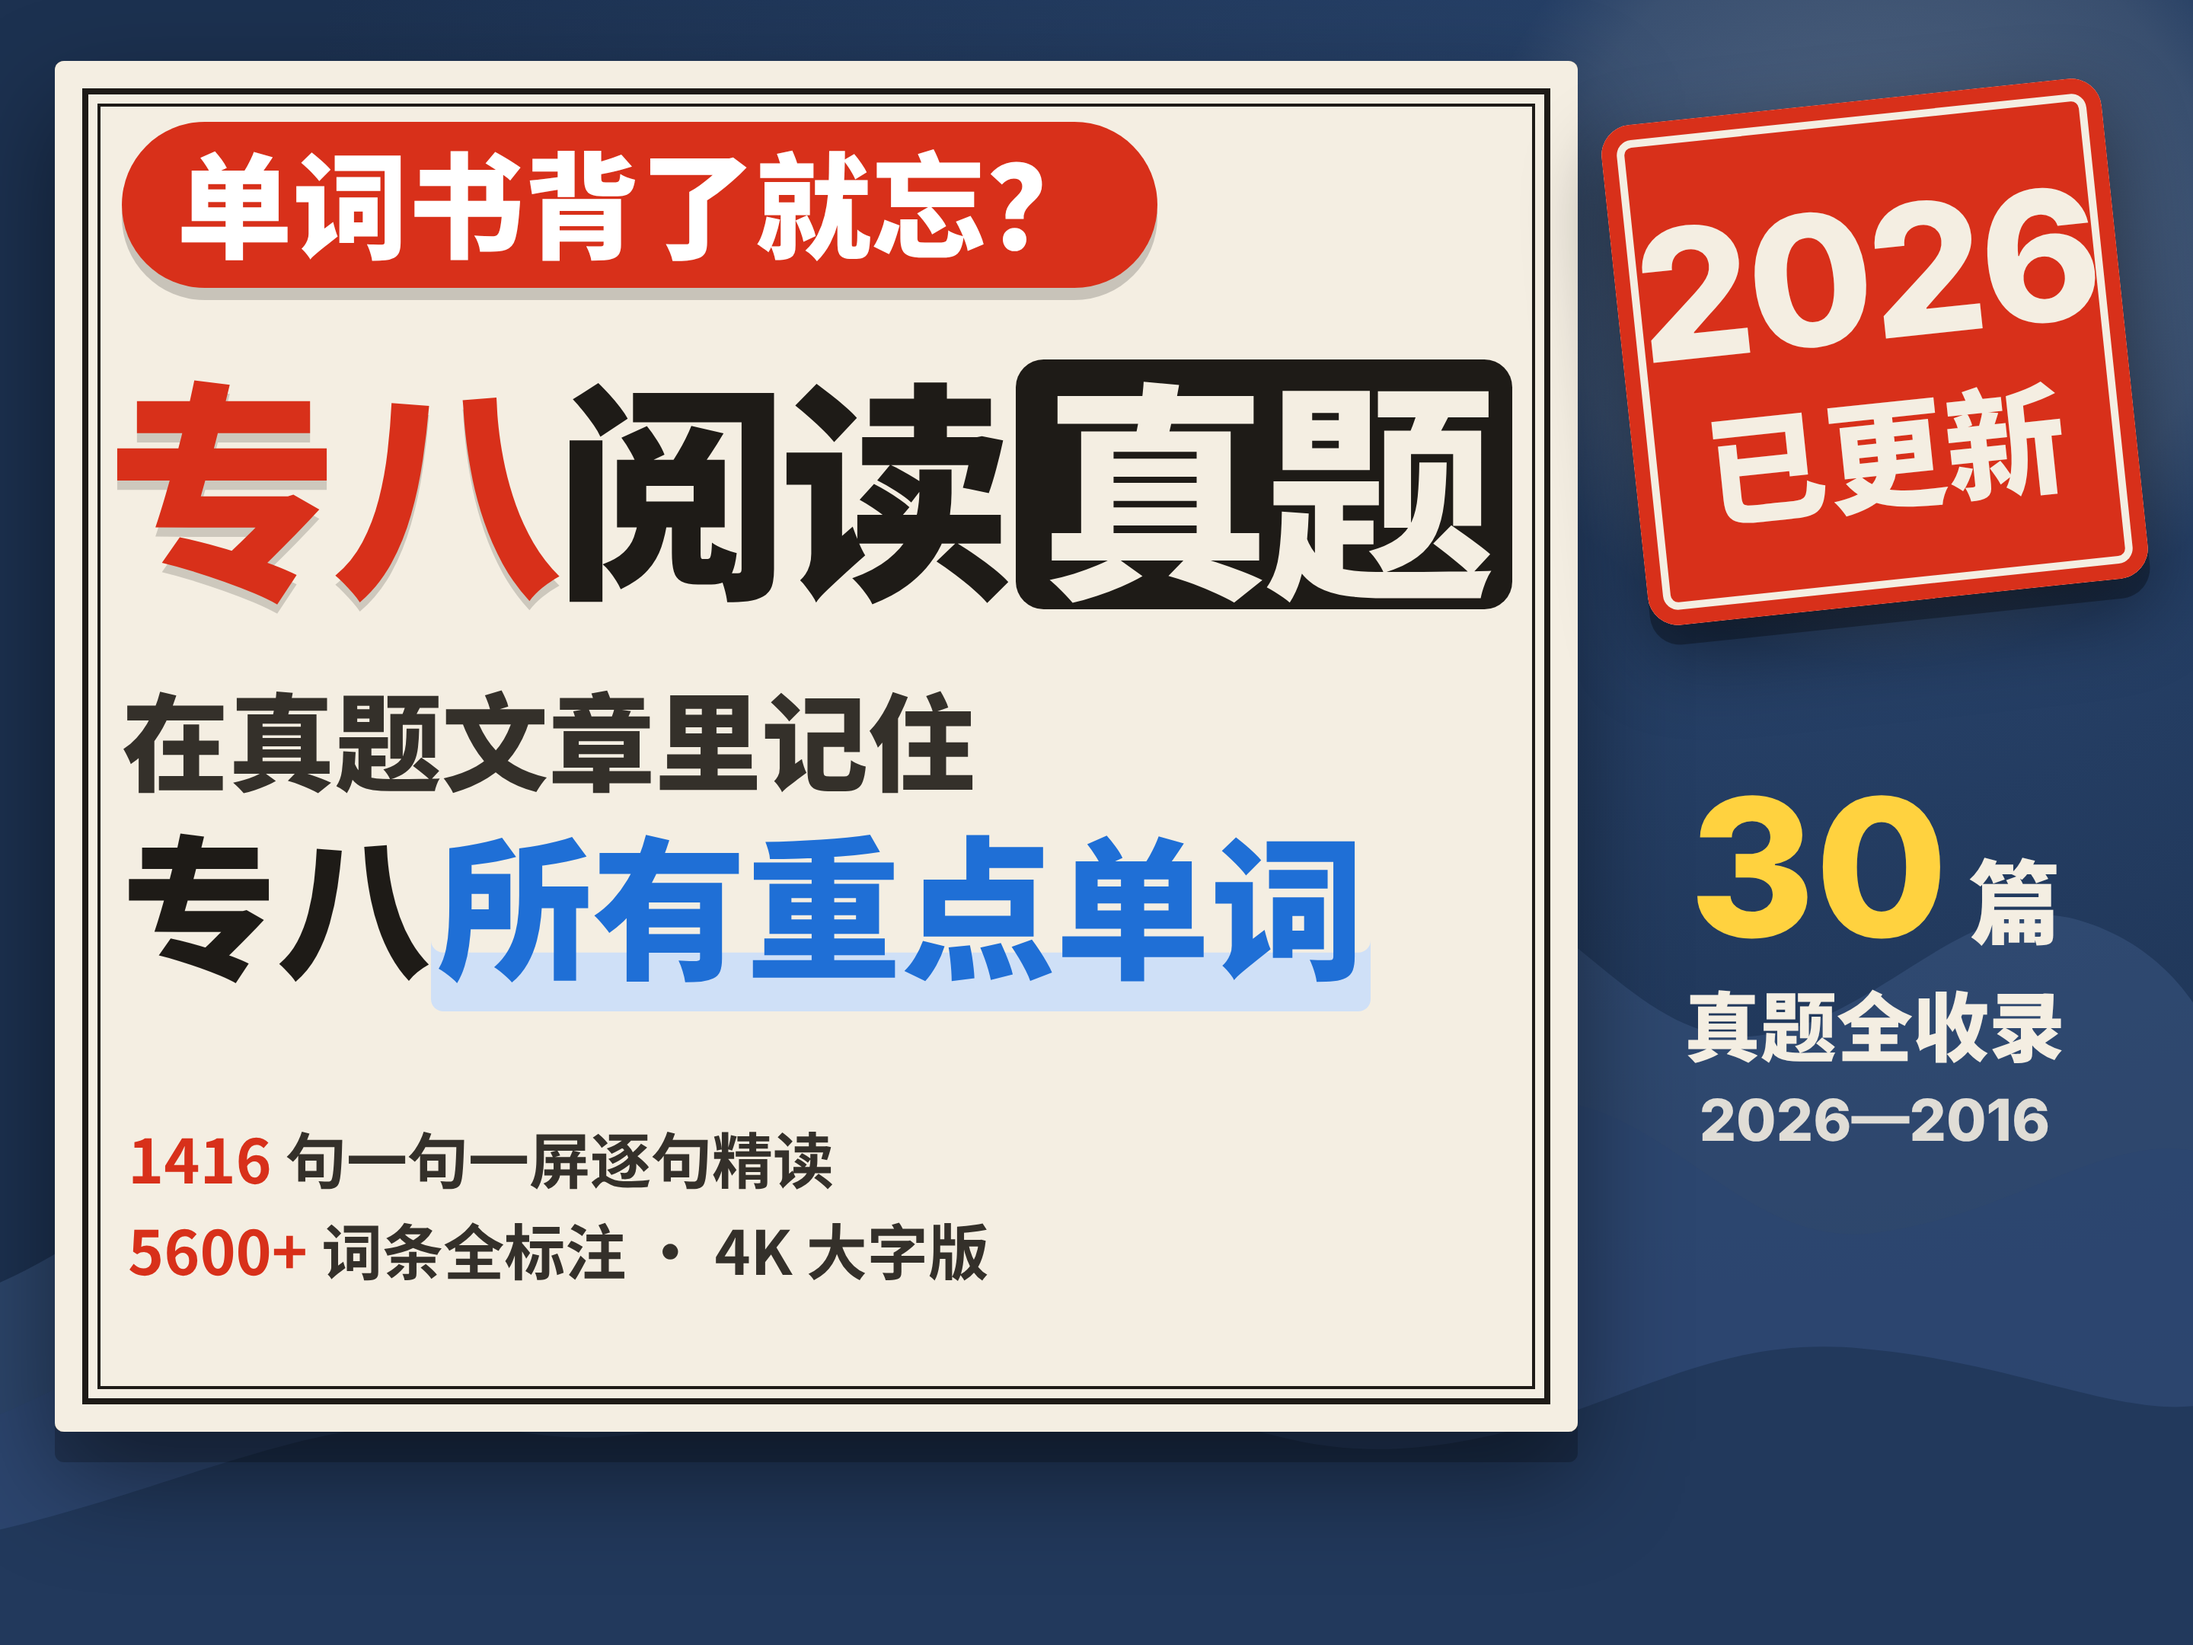
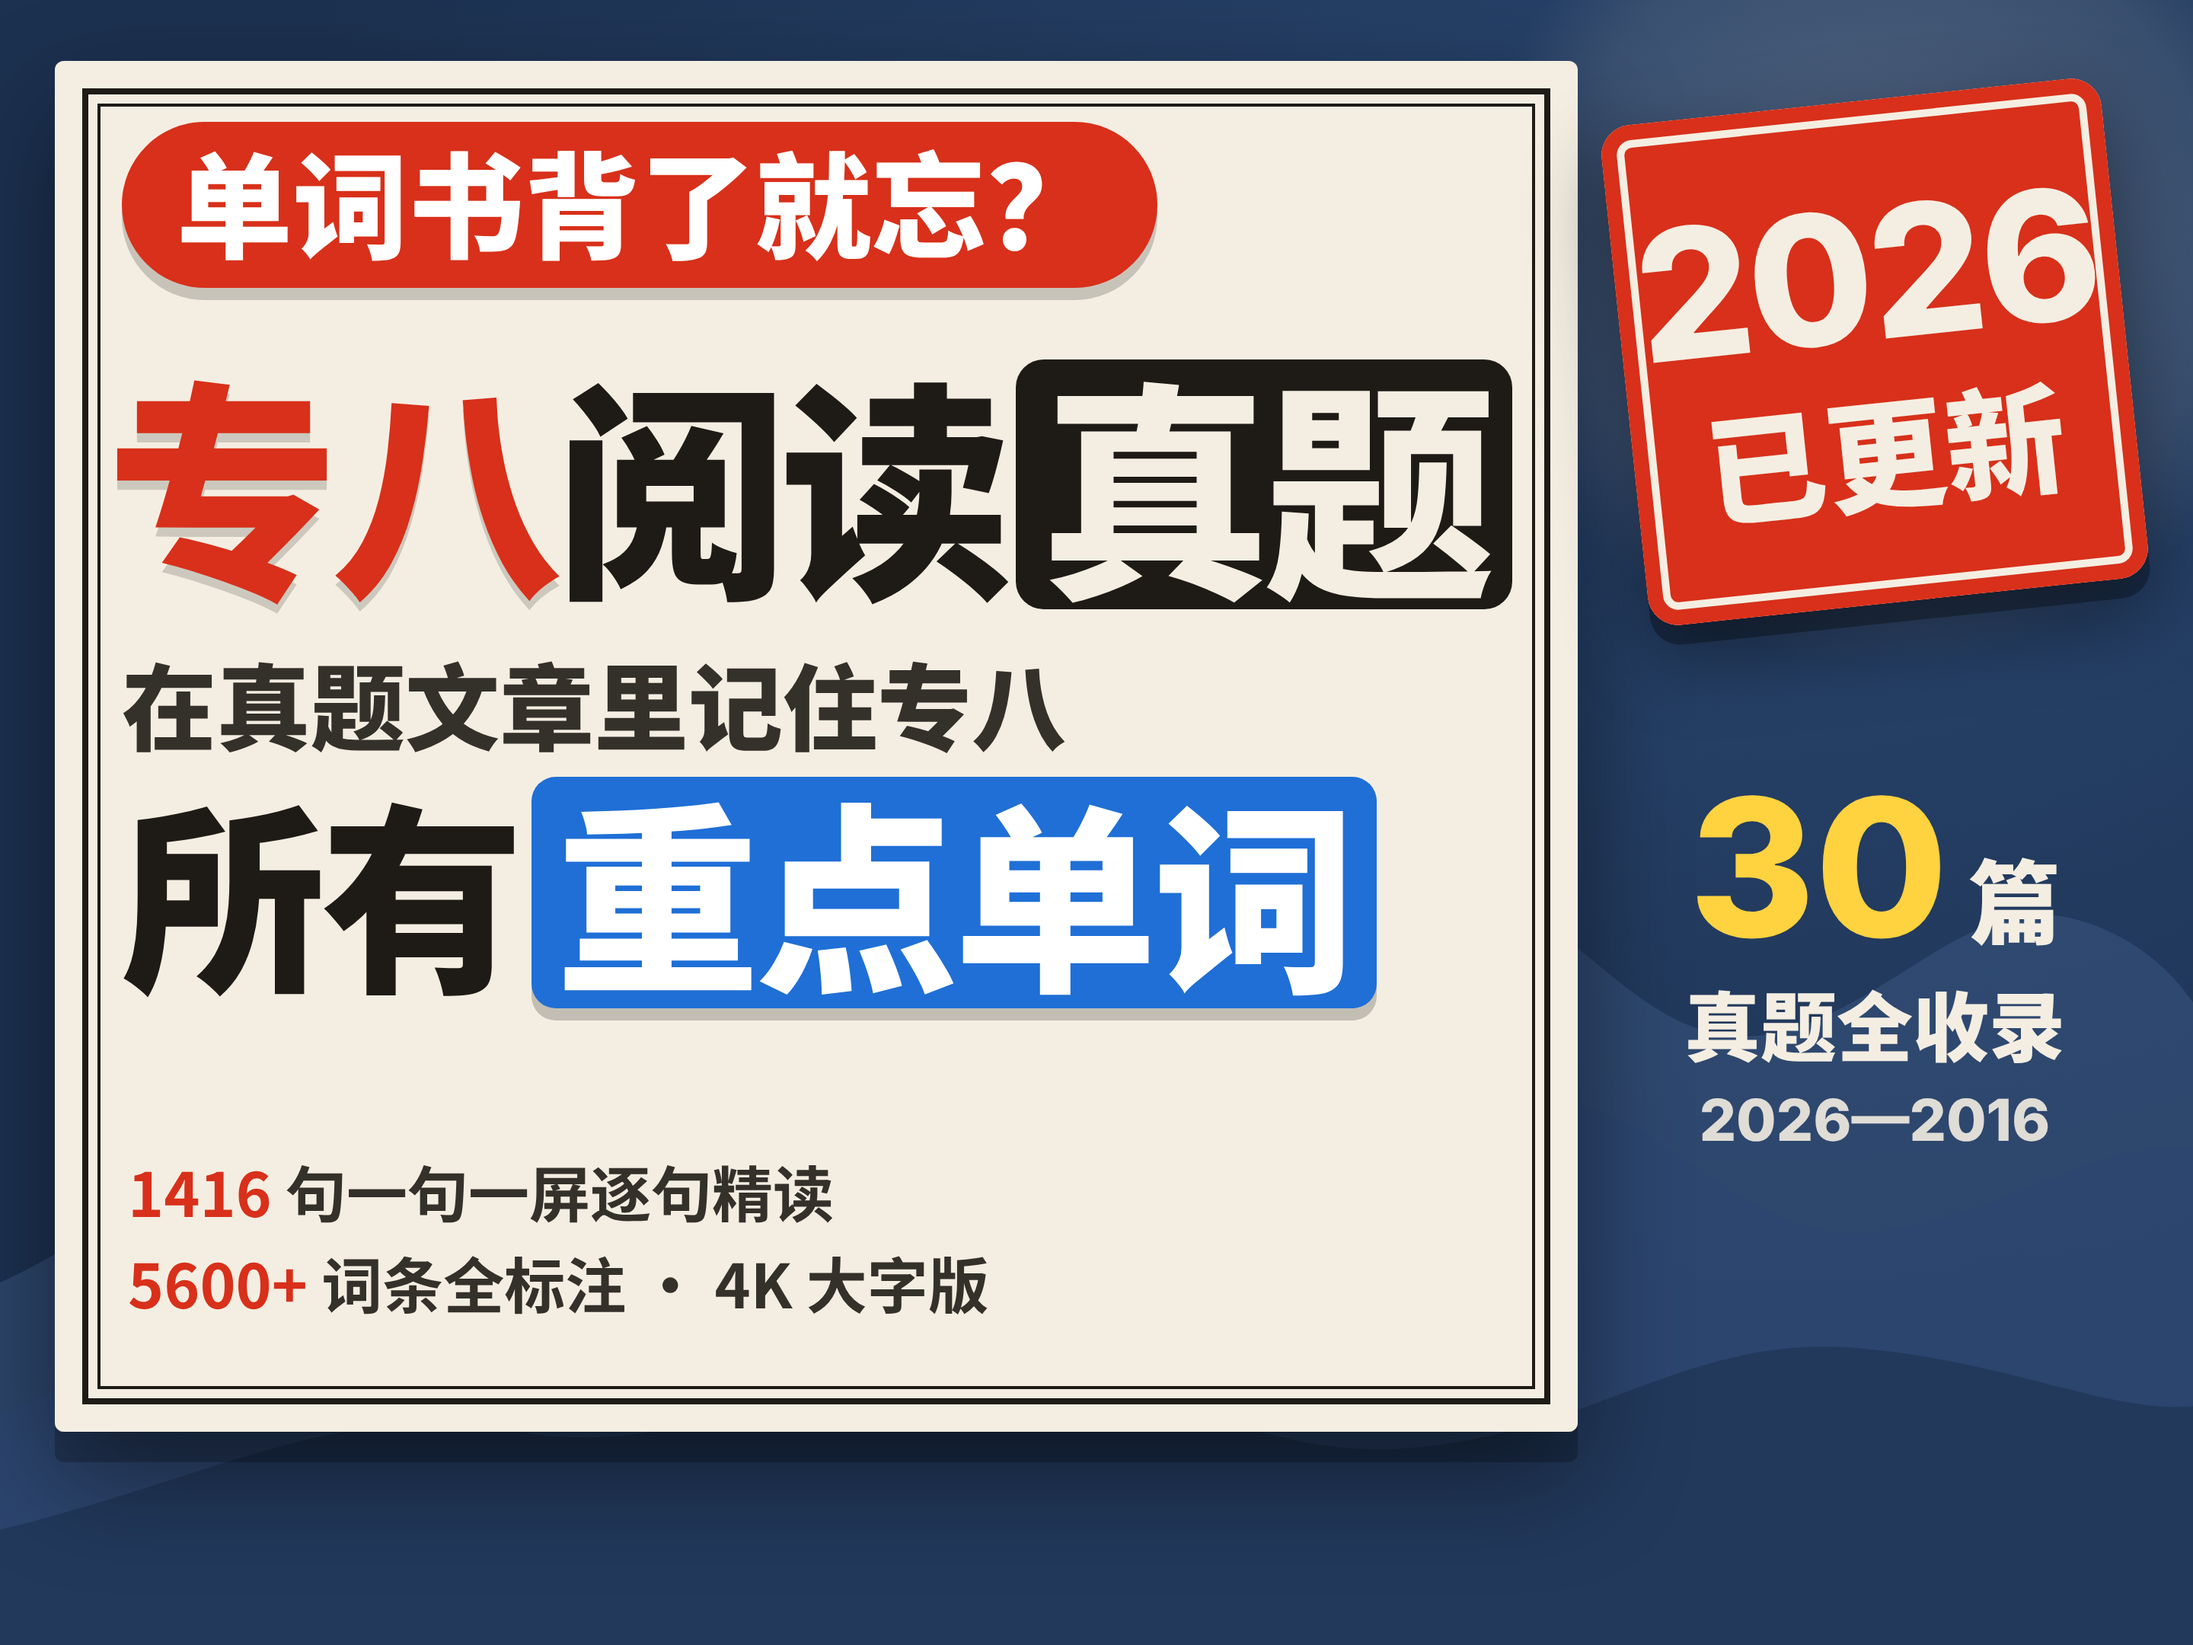
专八系列封面 v2 定稿：“所有重点单词”放大到接近标题（16:9 175px），“重点单词”蓝底白字实心块（用户：要更大、更显眼）
Claude-Session: https://claude.ai/code/session_01DQfeCDeEGPFQVD7v6d2rPa

Changed region(s): [[0.0625, 0.4032, 0.625, 0.6204], [0.0625, 0.6824, 0.4688, 0.8065]]

diff --git a/专八/封面/系列封面.py b/专八/封面/系列封面.py
@@ -282,6 +282,11 @@ def v2_D(w=1920, h=1080):
 {cards(1470, 760, 360)}"""
 
 
+# “重点单词”：蓝色实心块白字（用户 2026-10-24：所有重点单词要更大、更显眼）
+KEYW = (f'<span style="display:inline-block;background:{BLUE};color:#fff;border-radius:.12em;padding:0 .12em .04em;margin-left:.06em;'
+        f'box-shadow:0 .06em 0 rgba(0,0,0,.2)">重点单词</span>')
+
+
 def v2_E(w=1920, h=1080):
     """E 定稿（D + 3 位评审意见）：痛点问句放大占一行；标题加“阅读”（不被当成背单词视频）；删掉手机上读不出的小标签和小截图；“30 篇全收录”放大。"""
     return f"""
@@ -290,11 +295,11 @@ def v2_E(w=1920, h=1080):
 <div class="wcard" style="left:44px;top:40px;width:1360px;height:900px"></div>
 <div class="ab" data-k="pain" data-min="{MIN_SELL}" style="left:100px;top:80px;font:900 {fs(88)}/1.2 Black;color:#fff;padding:6px 40px 14px;
   background:{KY};border-radius:60px;box-shadow:0 8px 0 rgba(0,0,0,.18)">单词书背了就忘？</div>
-<div class="ab" data-k="title" data-min="{MIN_TITLE}" style="left:88px;top:250px;font:900 {fs(198)}/1 Black;letter-spacing:-.02em">
+<div class="ab" data-k="title" data-min="{MIN_TITLE}" style="left:88px;top:232px;font:900 {fs(198)}/1 Black;letter-spacing:-.02em">
   <span style="color:{KY};text-shadow:0 .04em 0 rgba(30,27,23,.18)">专八</span>阅读<span class="zt" style="margin-left:.06em">真题</span></div>
-<div class="ab" data-k="sell" data-min="{MIN_SELL}" style="left:100px;top:500px;font:900 {fs(84)}/1.25 Black;color:{INK2}">在真题文章里记住<br>
-  <span style="color:{INK};font-size:1.5em">专八<span class="mk" style="color:{BLUE}">所有重点单词</span></span></div>
-<div class="ab" data-k="facts" style="left:104px;top:808px;font:700 46px/1.3 Bold;color:{INK2}"><span style="color:{KY}">{SENTS}</span> 句一句一屏逐句精读 · <span style="color:{KY}">{UNIQ_V2}</span> 词条全标注 · 4K 大字版</div>
+<div class="ab" data-k="sell" data-min="{MIN_SELL}" style="left:100px;top:470px;font:900 {fs(76)}/1.2 Black;color:{INK2}">在真题文章里记住专八<br>
+  <span style="display:inline-block;margin-top:14px;color:{INK};font-size:2.3em;line-height:1.1;letter-spacing:-.02em">所有{KEYW}</span></div>
+<div class="ab" data-k="facts" style="left:104px;top:842px;font:700 42px/1.3 Bold;color:{INK2}"><span style="color:{KY}">{SENTS}</span> 句一句一屏逐句精读 · <span style="color:{KY}">{UNIQ_V2}</span> 词条全标注 · 4K 大字版</div>
 {seal(1440, 70, 400)}
 <div class="ab" data-k="years" style="left:1430px;top:560px;color:{PAPER};text-align:center;width:430px">
   <div style="font:900 72px/1.1 Black"><span class="lat" style="font-size:2.1em;color:{YEL}">{N}</span> 篇</div>
@@ -311,9 +316,9 @@ def v2_E43(w=1440, h=1080):
   background:{KY};border-radius:56px;box-shadow:0 8px 0 rgba(0,0,0,.18)">单词书背了就忘？</div>
 <div class="ab" data-k="title" data-min="{MIN_TITLE}" style="left:70px;top:236px;font:900 {fs(152)}/1 Black;letter-spacing:-.03em">
   <span style="color:{KY};text-shadow:0 .04em 0 rgba(30,27,23,.18)">专八</span>阅读<span class="zt" style="margin-left:.05em">真题</span></div>
-<div class="ab" data-k="sell" data-min="{MIN_SELL}" style="left:80px;top:440px;font:900 {fs(70)}/1.25 Black;color:{INK2}">在真题文章里记住<br>
-  <span style="color:{INK};font-size:1.45em">专八<span class="mk" style="color:{BLUE}">所有重点单词</span></span></div>
-<div class="ab" data-k="facts" style="left:84px;top:730px;width:900px;white-space:normal;font:700 40px/1.5 Bold;color:{INK2}"><span style="color:{KY}">{SENTS}</span> 句一句一屏逐句精读<br><span style="color:{KY}">{UNIQ_V2}</span> 词条全标注 · 4K 大字版</div>
+<div class="ab" data-k="sell" data-min="{MIN_SELL}" style="left:80px;top:424px;font:900 {fs(62)}/1.2 Black;color:{INK2}">在真题文章里记住专八<br>
+  <span style="display:inline-block;margin-top:12px;color:{INK};font-size:2.15em;line-height:1.1;letter-spacing:-.02em">所有{KEYW}</span></div>
+<div class="ab" data-k="facts" style="left:84px;top:752px;width:900px;white-space:normal;font:700 40px/1.5 Bold;color:{INK2}"><span style="color:{KY}">{SENTS}</span> 句一句一屏逐句精读<br><span style="color:{KY}">{UNIQ_V2}</span> 词条全标注 · 4K 大字版</div>
 {seal(1066, 66, 330)}
 <div class="ab" data-k="years" style="left:1056px;top:500px;color:{PAPER};text-align:center;width:350px">
   <div style="font:900 60px/1.1 Black"><span class="lat" style="font-size:2.1em;color:{YEL}">{N}</span> 篇</div>
